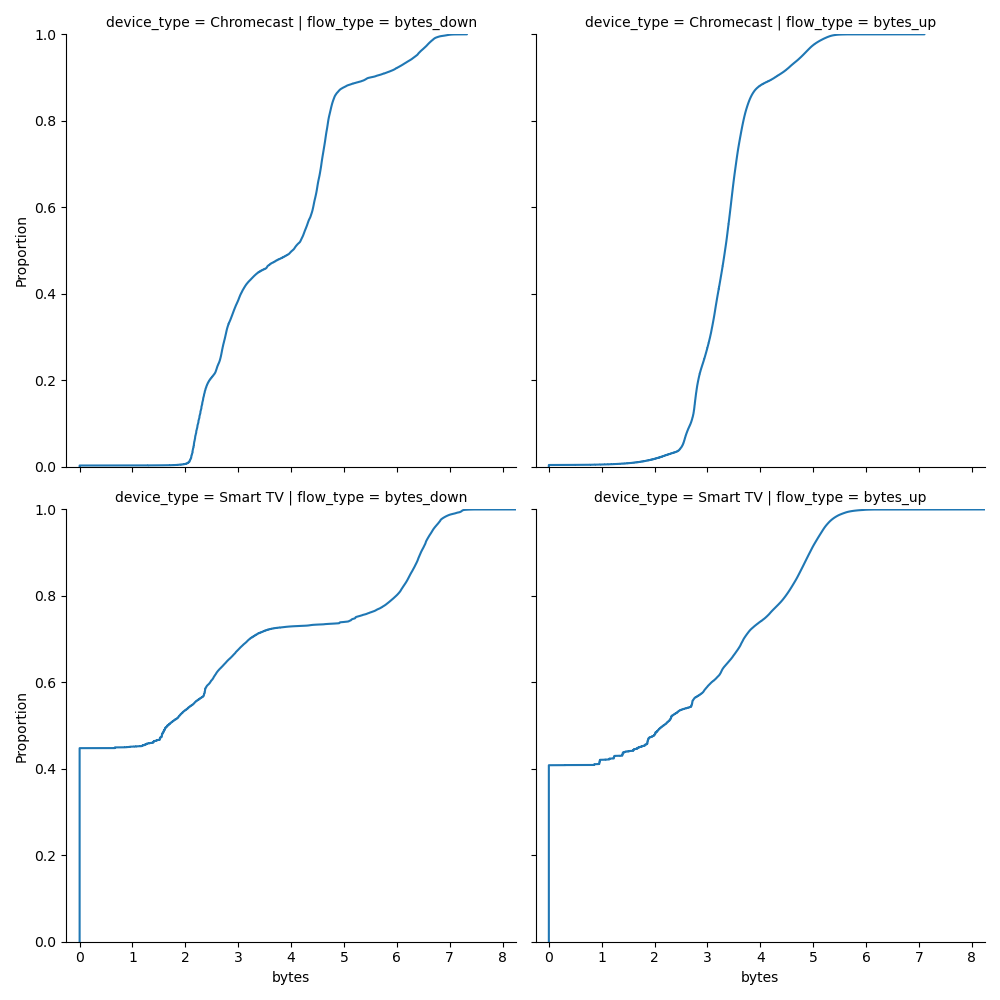
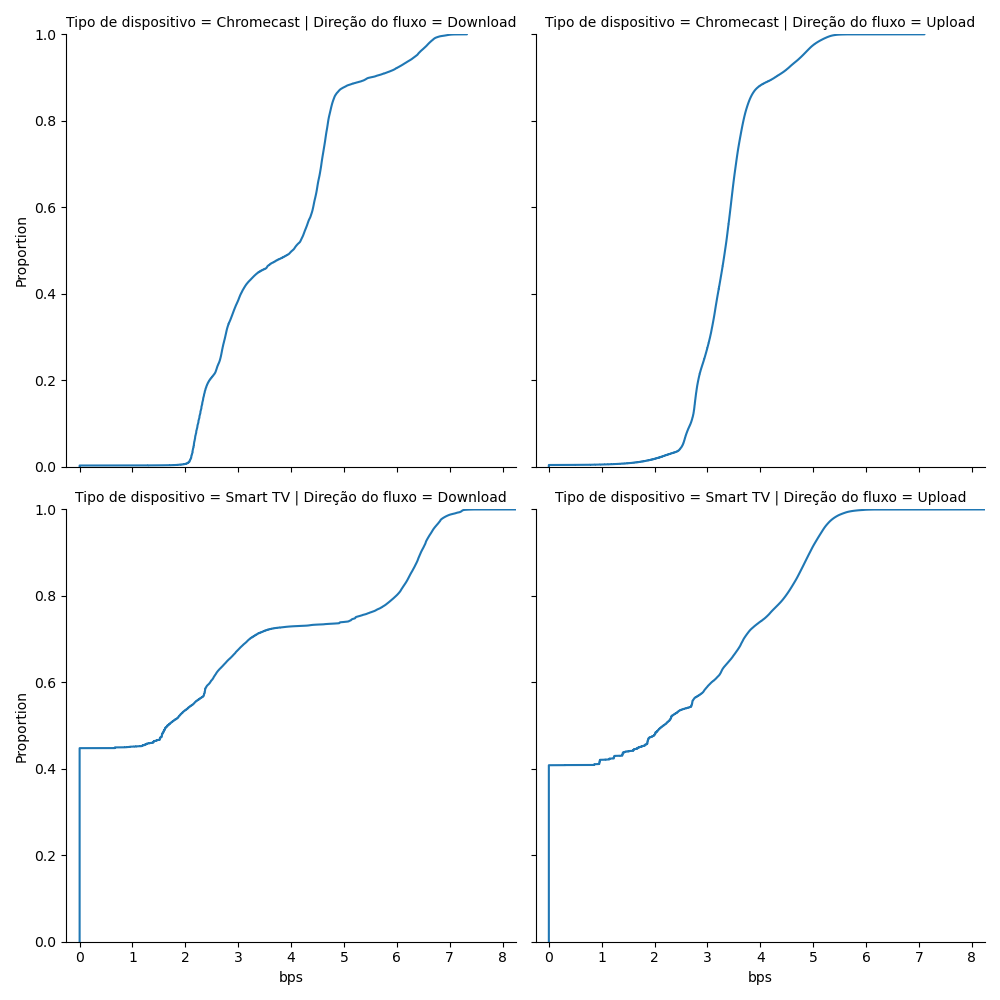
Resultados corrigidos

diff --git a/codigo/resultados/questao3/estatisticas_gerais.tex b/codigo/resultados/questao3/estatisticas_gerais.tex
@@ -1,33 +1,33 @@
 \begin{tabular}{lrrrrrrrrrrrr}
 \toprule
-device_type & \multicolumn{6}{r}{Chromecast} & \multicolumn{6}{r}{Smart TV} \\
-flow_type & \multicolumn{3}{r}{bytes_down} & \multicolumn{3}{r}{bytes_up} & \multicolumn{3}{r}{bytes_down} & \multicolumn{3}{r}{bytes_up} \\
- & avg & std & var & avg & std & var & avg & std & var & avg & std & var \\
-hour &  &  &  &  &  &  &  &  &  &  &  &  \\
+Tipo de dispositivo & \multicolumn{6}{r}{Chromecast} & \multicolumn{6}{r}{Smart TV} \\
+Direção do fluxo & \multicolumn{3}{r}{Download} & \multicolumn{3}{r}{Upload} & \multicolumn{3}{r}{Download} & \multicolumn{3}{r}{Upload} \\
+ & Desvio padrão & Média & Variância & Desvio padrão & Média & Variância & Desvio padrão & Média & Variância & Desvio padrão & Média & Variância \\
+Hora &  &  &  &  &  &  &  &  &  &  &  &  \\
 \midrule
-0 & 3.952850 & 1.436895 & 2.064666 & 3.432224 & 0.794518 & 0.631259 & 2.104854 & 2.624461 & 6.887793 & 1.894305 & 2.038918 & 4.157187 \\
-1 & 3.775800 & 1.319655 & 1.741489 & 3.322240 & 0.694322 & 0.482083 & 1.601558 & 2.460014 & 6.051668 & 1.467429 & 1.938709 & 3.758593 \\
-2 & 3.685634 & 1.207270 & 1.457501 & 3.243208 & 0.584306 & 0.341414 & 1.228449 & 2.226354 & 4.956650 & 1.153520 & 1.775299 & 3.151687 \\
-3 & 3.636654 & 1.186383 & 1.407506 & 3.202075 & 0.554351 & 0.307305 & 0.897434 & 1.904640 & 3.627655 & 0.893250 & 1.569978 & 2.464831 \\
-4 & 3.618231 & 1.189139 & 1.414050 & 3.178324 & 0.560972 & 0.314690 & 0.735541 & 1.699148 & 2.887103 & 0.768513 & 1.433807 & 2.055803 \\
-5 & 3.571032 & 1.173356 & 1.376763 & 3.159119 & 0.539312 & 0.290857 & 0.891368 & 1.876726 & 3.522100 & 0.875206 & 1.531350 & 2.345032 \\
-6 & 3.565706 & 1.170897 & 1.371000 & 3.156929 & 0.551092 & 0.303702 & 1.072552 & 1.999899 & 3.999597 & 1.024942 & 1.624929 & 2.640394 \\
-7 & 3.616019 & 1.194414 & 1.426624 & 3.200951 & 0.580830 & 0.337363 & 1.244904 & 2.097821 & 4.400851 & 1.197472 & 1.732225 & 3.000605 \\
-8 & 3.652994 & 1.219377 & 1.486881 & 3.241986 & 0.624205 & 0.389632 & 1.477639 & 2.307351 & 5.323868 & 1.391751 & 1.878449 & 3.528571 \\
-9 & 3.696779 & 1.228576 & 1.509398 & 3.286230 & 0.630291 & 0.397267 & 1.868046 & 2.500349 & 6.251746 & 1.717071 & 1.992853 & 3.971464 \\
-10 & 3.707627 & 1.232442 & 1.518914 & 3.297574 & 0.638104 & 0.407177 & 2.229627 & 2.623770 & 6.884166 & 2.016919 & 2.058165 & 4.236045 \\
-11 & 3.741709 & 1.230667 & 1.514542 & 3.321417 & 0.638439 & 0.407605 & 2.526218 & 2.656212 & 7.055464 & 2.265692 & 2.065974 & 4.268247 \\
-12 & 3.778504 & 1.239997 & 1.537592 & 3.348240 & 0.636332 & 0.404919 & 2.775081 & 2.654096 & 7.044225 & 2.473814 & 2.039227 & 4.158446 \\
-13 & 3.785476 & 1.260480 & 1.588810 & 3.354790 & 0.654866 & 0.428849 & 2.778912 & 2.646044 & 7.001551 & 2.488615 & 2.034102 & 4.137570 \\
-14 & 3.797883 & 1.257604 & 1.581567 & 3.362783 & 0.652018 & 0.425128 & 2.875519 & 2.690281 & 7.237613 & 2.557224 & 2.053784 & 4.218028 \\
-15 & 3.832907 & 1.274180 & 1.623535 & 3.380871 & 0.659739 & 0.435256 & 2.919766 & 2.676379 & 7.163005 & 2.606434 & 2.028893 & 4.116405 \\
-16 & 3.865537 & 1.307396 & 1.709285 & 3.399312 & 0.691594 & 0.478302 & 2.875806 & 2.599768 & 6.758791 & 2.620344 & 1.966391 & 3.866695 \\
-17 & 3.879520 & 1.315232 & 1.729836 & 3.407519 & 0.704327 & 0.496077 & 2.958344 & 2.532914 & 6.415652 & 2.744111 & 1.895110 & 3.591443 \\
-18 & 3.857777 & 1.288857 & 1.661151 & 3.401082 & 0.689084 & 0.474836 & 3.191252 & 2.498385 & 6.241926 & 2.951113 & 1.830401 & 3.350368 \\
-19 & 3.852564 & 1.288351 & 1.659848 & 3.417621 & 0.695905 & 0.484284 & 3.321728 & 2.508544 & 6.292793 & 3.053140 & 1.809849 & 3.275552 \\
-20 & 3.922252 & 1.323111 & 1.750624 & 3.468405 & 0.702626 & 0.493683 & 3.396095 & 2.490256 & 6.201373 & 3.124258 & 1.780100 & 3.168755 \\
-21 & 3.967838 & 1.364357 & 1.861471 & 3.493923 & 0.737207 & 0.543474 & 3.366405 & 2.474912 & 6.125191 & 3.103354 & 1.769660 & 3.131697 \\
-22 & 4.036269 & 1.403345 & 1.969378 & 3.521546 & 0.771829 & 0.595720 & 3.060797 & 2.507882 & 6.289470 & 2.837247 & 1.859756 & 3.458693 \\
-23 & 4.052698 & 1.469486 & 2.159389 & 3.507683 & 0.832647 & 0.693302 & 2.585656 & 2.578422 & 6.648262 & 2.374987 & 1.984745 & 3.939213 \\
+0 & 1.436895 & 3.952850 & 2.064666 & 0.794518 & 3.432224 & 0.631259 & 2.624461 & 2.104854 & 6.887793 & 2.038918 & 1.894305 & 4.157187 \\
+1 & 1.319655 & 3.775800 & 1.741489 & 0.694322 & 3.322240 & 0.482083 & 2.460014 & 1.601558 & 6.051668 & 1.938709 & 1.467429 & 3.758593 \\
+2 & 1.207270 & 3.685634 & 1.457501 & 0.584306 & 3.243208 & 0.341414 & 2.226354 & 1.228449 & 4.956650 & 1.775299 & 1.153520 & 3.151687 \\
+3 & 1.186383 & 3.636654 & 1.407506 & 0.554351 & 3.202075 & 0.307305 & 1.904640 & 0.897434 & 3.627655 & 1.569978 & 0.893250 & 2.464831 \\
+4 & 1.189139 & 3.618231 & 1.414050 & 0.560972 & 3.178324 & 0.314690 & 1.699148 & 0.735541 & 2.887103 & 1.433807 & 0.768513 & 2.055803 \\
+5 & 1.173356 & 3.571032 & 1.376763 & 0.539312 & 3.159119 & 0.290857 & 1.876726 & 0.891368 & 3.522100 & 1.531350 & 0.875206 & 2.345032 \\
+6 & 1.170897 & 3.565706 & 1.371000 & 0.551092 & 3.156929 & 0.303702 & 1.999899 & 1.072552 & 3.999597 & 1.624929 & 1.024942 & 2.640394 \\
+7 & 1.194414 & 3.616019 & 1.426624 & 0.580830 & 3.200951 & 0.337363 & 2.097821 & 1.244904 & 4.400851 & 1.732225 & 1.197472 & 3.000605 \\
+8 & 1.219377 & 3.652994 & 1.486881 & 0.624205 & 3.241986 & 0.389632 & 2.307351 & 1.477639 & 5.323868 & 1.878449 & 1.391751 & 3.528571 \\
+9 & 1.228576 & 3.696779 & 1.509398 & 0.630291 & 3.286230 & 0.397267 & 2.500349 & 1.868046 & 6.251746 & 1.992853 & 1.717071 & 3.971464 \\
+10 & 1.232442 & 3.707627 & 1.518914 & 0.638104 & 3.297574 & 0.407177 & 2.623770 & 2.229627 & 6.884166 & 2.058165 & 2.016919 & 4.236045 \\
+11 & 1.230667 & 3.741709 & 1.514542 & 0.638439 & 3.321417 & 0.407605 & 2.656212 & 2.526218 & 7.055464 & 2.065974 & 2.265692 & 4.268247 \\
+12 & 1.239997 & 3.778504 & 1.537592 & 0.636332 & 3.348240 & 0.404919 & 2.654096 & 2.775081 & 7.044225 & 2.039227 & 2.473814 & 4.158446 \\
+13 & 1.260480 & 3.785476 & 1.588810 & 0.654866 & 3.354790 & 0.428849 & 2.646044 & 2.778912 & 7.001551 & 2.034102 & 2.488615 & 4.137570 \\
+14 & 1.257604 & 3.797883 & 1.581567 & 0.652018 & 3.362783 & 0.425128 & 2.690281 & 2.875519 & 7.237613 & 2.053784 & 2.557224 & 4.218028 \\
+15 & 1.274180 & 3.832907 & 1.623535 & 0.659739 & 3.380871 & 0.435256 & 2.676379 & 2.919766 & 7.163005 & 2.028893 & 2.606434 & 4.116405 \\
+16 & 1.307396 & 3.865537 & 1.709285 & 0.691594 & 3.399312 & 0.478302 & 2.599768 & 2.875806 & 6.758791 & 1.966391 & 2.620344 & 3.866695 \\
+17 & 1.315232 & 3.879520 & 1.729836 & 0.704327 & 3.407519 & 0.496077 & 2.532914 & 2.958344 & 6.415652 & 1.895110 & 2.744111 & 3.591443 \\
+18 & 1.288857 & 3.857777 & 1.661151 & 0.689084 & 3.401082 & 0.474836 & 2.498385 & 3.191252 & 6.241926 & 1.830401 & 2.951113 & 3.350368 \\
+19 & 1.288351 & 3.852564 & 1.659848 & 0.695905 & 3.417621 & 0.484284 & 2.508544 & 3.321728 & 6.292793 & 1.809849 & 3.053140 & 3.275552 \\
+20 & 1.323111 & 3.922252 & 1.750624 & 0.702626 & 3.468405 & 0.493683 & 2.490256 & 3.396095 & 6.201373 & 1.780100 & 3.124258 & 3.168755 \\
+21 & 1.364357 & 3.967838 & 1.861471 & 0.737207 & 3.493923 & 0.543474 & 2.474912 & 3.366405 & 6.125191 & 1.769660 & 3.103354 & 3.131697 \\
+22 & 1.403345 & 4.036269 & 1.969378 & 0.771829 & 3.521546 & 0.595720 & 2.507882 & 3.060797 & 6.289470 & 1.859756 & 2.837247 & 3.458693 \\
+23 & 1.469486 & 4.052698 & 2.159389 & 0.832647 & 3.507683 & 0.693302 & 2.578422 & 2.585656 & 6.648262 & 1.984745 & 2.374987 & 3.939213 \\
 \bottomrule
 \end{tabular}

diff --git a/codigo/resultados/questao2/global_stats_add1.tex b/codigo/resultados/questao2/global_stats_add1.tex
@@ -1,13 +1,13 @@
 \begin{tabular}{llrrrr}
 \toprule
- &  & count & average & stddev & variance \\
-device_type & flow_type &  &  &  &  \\
+ &  & \$n\$ & Média & Desvio padrão & Variância \\
+Tipo de dispositivo & Direção do fluxo &  &  &  &  \\
 \midrule
-\multirow[t]{2}{*}{Chromecast} & bytes\_down & 1620529 & 3.800046 & 1.663896 & 1.289921 \\
- & bytes\_up & 1620529 & 3.350300 & 0.459969 & 0.678210 \\
+\multirow[t]{2}{*}{Chromecast} & Download & 1620529 & 3.800046 & 1.663896 & 1.289921 \\
+ & Upload & 1620529 & 3.350300 & 0.459969 & 0.678210 \\
 \cline{1-6}
-\multirow[t]{2}{*}{Smart TV} & bytes\_down & 4417903 & 2.351679 & 6.721324 & 2.592552 \\
- & bytes\_up & 4417903 & 2.158288 & 4.110139 & 2.027348 \\
+\multirow[t]{2}{*}{Smart TV} & Download & 4417903 & 2.351679 & 6.721324 & 2.592552 \\
+ & Upload & 4417903 & 2.158288 & 4.110139 & 2.027348 \\
 \cline{1-6}
 \bottomrule
 \end{tabular}

diff --git a/codigo/resultados/questao2/global_stats_dropna.tex b/codigo/resultados/questao2/global_stats_dropna.tex
@@ -1,13 +1,13 @@
 \begin{tabular}{llrrrr}
 \toprule
- &  & count & average & stddev & variance \\
-device_type & flow_type &  &  &  &  \\
+ &  & \$n\$ & Média & Desvio padrão & Variância \\
+Tipo de dispositivo & Direção do fluxo &  &  &  &  \\
 \midrule
-\multirow[t]{2}{*}{Chromecast} & bytes\_down & 1616430 & 3.808970 & 1.633507 & 1.278087 \\
- & bytes\_up & 1614472 & 3.362239 & 0.421079 & 0.648906 \\
+\multirow[t]{2}{*}{Chromecast} & Download & 1616430 & 3.808970 & 1.633507 & 1.278087 \\
+ & Upload & 1614472 & 3.362239 & 0.421079 & 0.648906 \\
 \cline{1-6}
-\multirow[t]{2}{*}{Smart TV} & bytes\_down & 2439566 & 4.256017 & 4.065296 & 2.016258 \\
- & bytes\_up & 2614050 & 3.644768 & 1.527294 & 1.235838 \\
+\multirow[t]{2}{*}{Smart TV} & Download & 2439566 & 4.256017 & 4.065296 & 2.016258 \\
+ & Upload & 2614050 & 3.644768 & 1.527294 & 1.235838 \\
 \cline{1-6}
 \bottomrule
 \end{tabular}

diff --git a/codigo/resultados/questao4/contagem_dados.tex b/codigo/resultados/questao4/contagem_dados.tex
@@ -1,15 +1,15 @@
 \begin{tabular}{lllr}
 \toprule
  &  &  & count \\
-device_type & flow_type & hour &  \\
+Tipo de dispositivo & Direção do fluxo & Hora &  \\
 \midrule
-\multirow[t]{2}{*}{Smart TV} & bytes_up & 20.000000 & 175684 \\
+\multirow[t]{2}{*}{Smart TV} & Upload & 20.000000 & 175684 \\
 \cline{2-4}
- & bytes_down & 20.000000 & 168453 \\
+ & Download & 20.000000 & 168453 \\
 \cline{1-4} \cline{2-4}
-\multirow[t]{2}{*}{Chromecast} & bytes_up & 22.000000 & 76346 \\
+\multirow[t]{2}{*}{Chromecast} & Upload & 22.000000 & 76346 \\
 \cline{2-4}
- & bytes_down & 23.000000 & 71405 \\
+ & Download & 23.000000 & 71405 \\
 \cline{1-4} \cline{2-4}
 \bottomrule
 \end{tabular}

diff --git a/codigo/resultados/questao4/mle_gamma.tex b/codigo/resultados/questao4/mle_gamma.tex
@@ -1,13 +1,13 @@
 \begin{tabular}{llrr}
 \toprule
- &  & alpha & lambda \\
-device_type & flow_type &  &  \\
+ &  & $\alpha$ & $\lambda$ \\
+Tipo de dispositivo & Direção do fluxo &  &  \\
 \midrule
-\multirow[t]{2}{*}{Chromecast} & bytes_down & 7.870926 & 1.930165 \\
- & bytes_up & 23.287792 & 6.579145 \\
+\multirow[t]{2}{*}{Chromecast} & Download & 7.870926 & 1.930165 \\
+ & Upload & 23.287792 & 6.579145 \\
 \cline{1-4}
-\multirow[t]{2}{*}{Smart TV} & bytes_down & 3.947653 & 0.920995 \\
- & bytes_up & 8.547361 & 2.260667 \\
+\multirow[t]{2}{*}{Smart TV} & Download & 3.947653 & 0.920995 \\
+ & Upload & 8.547361 & 2.260667 \\
 \cline{1-4}
 \bottomrule
 \end{tabular}

diff --git a/codigo/resultados/questao4/mle_normal.tex b/codigo/resultados/questao4/mle_normal.tex
@@ -1,13 +1,13 @@
 \begin{tabular}{llrr}
 \toprule
- &  & mu & sigma2 \\
-device_type & flow_type &  &  \\
+ &  & $\mu$ & $\sigma^2$ \\
+Tipo de dispositivo & Direção do fluxo &  &  \\
 \midrule
-\multirow[t]{2}{*}{Chromecast} & bytes_down & 4.077841 & 1.438828 \\
- & bytes_up & 3.539628 & 0.731279 \\
+\multirow[t]{2}{*}{Chromecast} & Download & 4.077841 & 1.438828 \\
+ & Upload & 3.539628 & 0.731279 \\
 \cline{1-4}
-\multirow[t]{2}{*}{Smart TV} & bytes_down & 4.286281 & 2.002812 \\
- & bytes_up & 3.780892 & 1.162781 \\
+\multirow[t]{2}{*}{Smart TV} & Download & 4.286281 & 2.002812 \\
+ & Upload & 3.780892 & 1.162781 \\
 \cline{1-4}
 \bottomrule
 \end{tabular}

diff --git a/codigo/resultados/questao3/horarios_pico.tex b/codigo/resultados/questao3/horarios_pico.tex
@@ -1,15 +1,15 @@
 \begin{tabular}{lllr}
 \toprule
  &  &  & 0 \\
-device_type & flow_type &  &  \\
+Tipo de dispositivo & Direção do fluxo &  &  \\
 \midrule
-\multirow[t]{2}{*}{Chromecast} & bytes_down & avg & 23 \\
+\multirow[t]{2}{*}{Chromecast} & Download & Média & 23 \\
 \cline{2-4}
- & bytes_up & avg & 22 \\
+ & Upload & Média & 22 \\
 \cline{1-4} \cline{2-4}
-\multirow[t]{2}{*}{Smart TV} & bytes_down & avg & 20 \\
+\multirow[t]{2}{*}{Smart TV} & Download & Média & 20 \\
 \cline{2-4}
- & bytes_up & avg & 20 \\
+ & Upload & Média & 20 \\
 \cline{1-4} \cline{2-4}
 \bottomrule
 \end{tabular}

diff --git a/codigo/resultados/questao6/gtest_result_czero.tex b/codigo/resultados/questao6/gtest_result_czero.tex
@@ -1,7 +1,7 @@
 \begin{tabular}{llrr}
 \toprule
- &  & statistic & p-value \\
-hour & device_type &  &  \\
+ &  & Estatística & $p$-valor \\
+Hora & Tipo de dispositivo &  &  \\
 \midrule
 20 & Smart TV & 464123.754381 & 0.000000 \\
 \cline{1-4}

diff --git a/codigo/resultados/questao5/corr_results.tex b/codigo/resultados/questao5/corr_results.tex
@@ -1,7 +1,7 @@
 \begin{tabular}{llrr}
 \toprule
- &  & rho & p-value \\
-hour & device_type &  &  \\
+ &  & $\rho$ & $p$-valor \\
+Hora & Tipo de dispositivo &  &  \\
 \midrule
 20 & Smart TV & 0.900466 & 0.000000 \\
 \cline{1-4}
